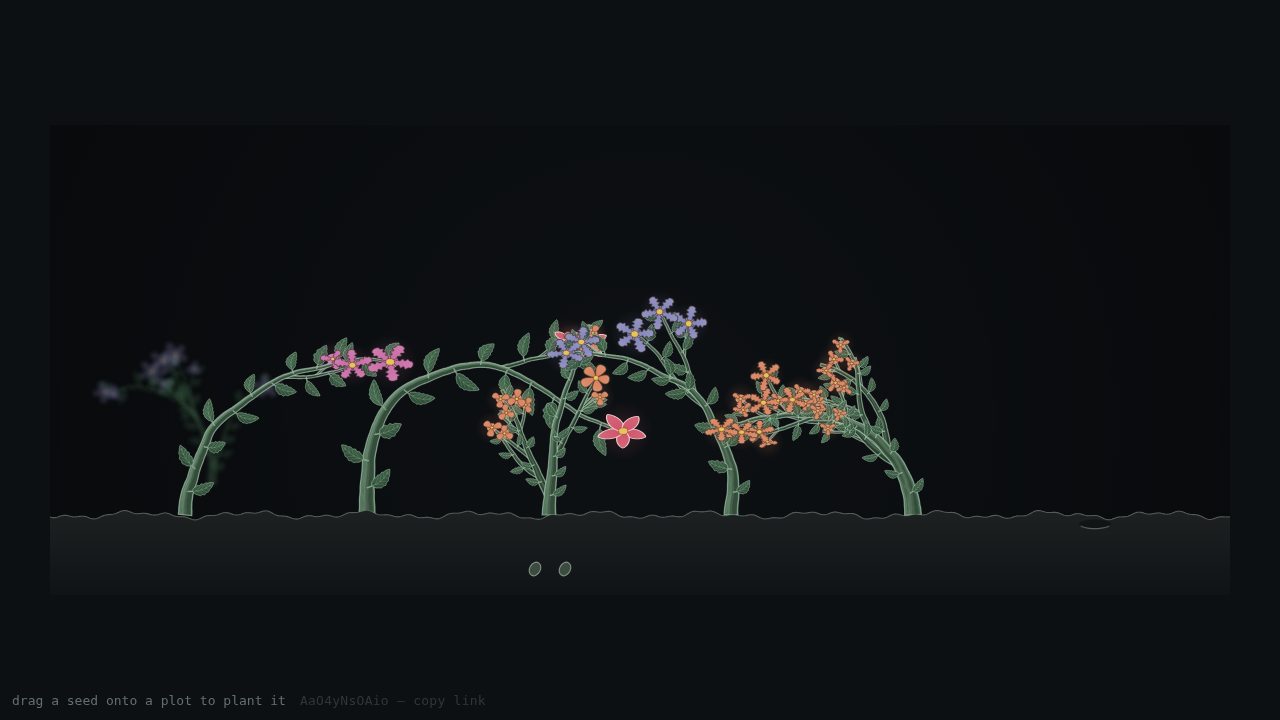
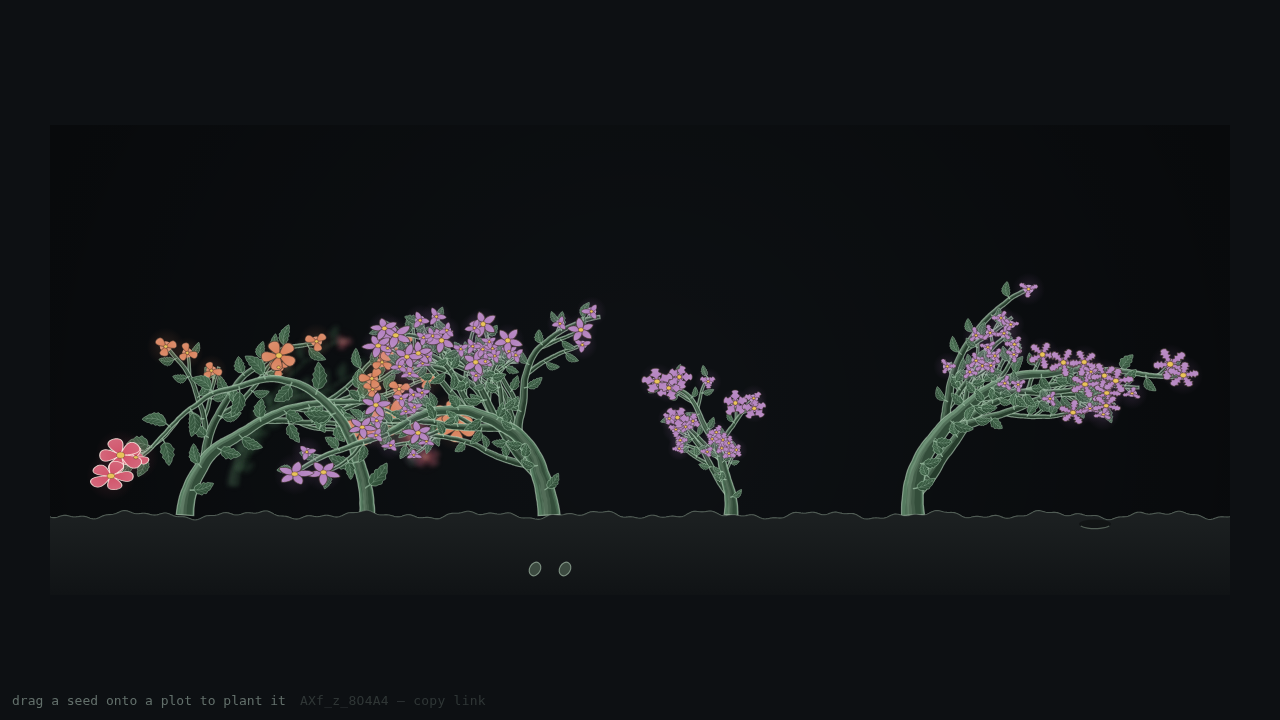
feat(garden): the world adapts to the viewport
A phone no longer gets a 396x158 strip of a desktop-shaped world. World size,
soil line and plot count all come from computeLayout(viewport) — 6 plots at
1180x470 on a desktop, 4 in phone landscape, 2 in portrait — and rotating
reshapes the bed rather than scaling it.

Surplus plants RETIRE when the bed narrows rather than vanishing, which is what
retirement already means here and leaves them in the background instead of
deleting them.

Three defects found while testing this, each of which only appears on a narrow
world:

- placeRetired scattered by a FIXED ±170px. That is 29% of a 1180-wide world
  but 86% of a 396-wide one, so retired plants were flung off the canvas: the
  background reported `depth 1, coverage 0` — a layer composited and drawn
  nowhere. Scatter is now a fraction of world width.
- Surplus plants were moved into `retired` carrying geometry built around a plot
  that no longer exists. A plant grown at x=728 composites almost entirely off
  a 396-wide canvas; two whole plants produced 157 covered pixels. They are
  re-grown into the new world before retiring.
- Resizing a canvas RESETS its transform, so the dpr scale has to be re-applied
  or everything after a rotation draws at half size.

And two defects in the CHECK itself, both of which reported failures that were
not there:

- It waited on `retired >= n`, which relayout satisfies synchronously before the
  frame loop has drawn anything — so it read a legitimately-empty buffer as a
[…]

Changed region(s): [[0.0625, 0.3972, 0.9375, 0.7333]]

diff --git a/garden/garden.ts b/garden/garden.ts
@@ -16,6 +16,7 @@ import {
   shownBlooms as bloomsOf,
   traySlot,
 } from "../src/game/hit";
+import { computeLayout, layoutChanged, type Layout } from "../src/game/layout";
 import { SAVE_KEY, fromSave, toSave, type ReplayEntry } from "../src/game/save";
 import type { Genome } from "../src/genome/genome";
 import { genomeSeed, parseGenome, serialize } from "../src/genome/serialize";
@@ -29,34 +30,28 @@ import {
 } from "../src/render/stage";
 import type { Vec2 } from "../src/types";
 
-const W = 1180;
-/**
- * Sized to what the plants actually occupy, not to a round number. At 520 with the soil at
- * 440 the tallest founder topped out around 40% of the frame and the upper 60% was empty
- * sky — the growth engine's plants are roughly 250px tall, so the headroom above them was
- * larger than the plants themselves.
- */
-const H = 470;
-/**
- * Deep enough that the tray rests ON the dirt rather than floating below the frame, shallow
- * enough that the band does not become a slab. At 108px it read as a caption strip; the
- * gradient in paintSoil does the rest of the work.
- */
-const SOIL = 390;
-const PLOTS = 6;
-/** Two thirds sown. The empty plots are the invitation to plant something. */
-const FOUNDERS = 4;
 /** Ticks per frame. Unhurried without being tedious. */
 const SPEED = 1.4;
+
+/**
+ * World geometry, from the viewport. Reassignable rather than constant: a phone rotated to
+ * landscape is a genuinely different garden, not the same garden shrunk.
+ */
+let {
+  W,
+  H,
+  soil: SOIL,
+  plotXs,
+} = computeLayout(window.innerWidth, window.innerHeight);
+/** Two thirds of the bed sown. The empty plots are the invitation to plant something. */
+const foundersFor = (plots: number): number =>
+  Math.max(1, Math.round(plots * 0.67));
 
 const canvas = document.getElementById("c") as HTMLCanvasElement;
 const hintEl = document.getElementById("hint")!;
 const codeEl = document.getElementById("code")!;
 const dpr = Math.min(2, window.devicePixelRatio || 1);
-canvas.width = W * dpr;
-canvas.height = H * dpr;
 const ctx = canvas.getContext("2d")!;
-ctx.scale(dpr, dpr);
 
 /**
  * Size the canvas box to the viewport WITHOUT distorting it.
@@ -80,14 +75,16 @@ function fitCanvas(): void {
   canvas.style.width = `${Math.round(W * scale)}px`;
   canvas.style.height = `${Math.round(H * scale)}px`;
 }
-fitCanvas();
-window.addEventListener("resize", fitCanvas);
-window.addEventListener("orientationchange", fitCanvas);
 
-const plotXs = Array.from({ length: PLOTS }, (_, i) => {
-  const inset = 135;
-  return inset + (i / (PLOTS - 1)) * (W - inset * 2);
-});
+/** Resizing a canvas RESETS its transform, so the dpr scale has to be re-applied. */
+function applyCanvasSize(): void {
+  canvas.width = W * dpr;
+  canvas.height = H * dpr;
+  ctx.setTransform(1, 0, 0, 1, 0, 0);
+  ctx.scale(dpr, dpr);
+  fitCanvas();
+}
+applyCanvasSize();
 
 const rand = mulberry32(Date.now() & 0x7fffffff);
 
@@ -129,10 +126,20 @@ if (stored) {
     if (loaded && !loaded.ok)
       notice = `saved garden rejected — ${loaded.error}`;
     console.error("[heirloom] could not load saved garden:", notice);
-    garden = sowFounders(createGarden(plotXs), FOUNDERS, SOIL, rand);
+    garden = sowFounders(
+      createGarden(plotXs),
+      foundersFor(plotXs.length),
+      SOIL,
+      rand,
+    );
   }
 } else {
-  garden = sowFounders(createGarden(plotXs), FOUNDERS, SOIL, rand);
+  garden = sowFounders(
+    createGarden(plotXs),
+    foundersFor(plotXs.length),
+    SOIL,
+    rand,
+  );
 }
 
 /**
@@ -171,7 +178,7 @@ let now = 0;
  * frame — rather than compositing inside the pointer handler — means every path that retires
  * a plant is covered automatically, including any future one.
  */
-const forest = new Forest(W, H, dpr);
+let forest = new Forest(W, H, dpr);
 let composited = 0;
 
 // Rebuild the background from the replay list rather than from a stored image (§7). Genomes
@@ -180,10 +187,85 @@ let composited = 0;
 // drew it. Costs one growPlant per entry, capped at REPLAY_CAP.
 for (const entry of restored) {
   forest.retire(
-    grow(entry.genome, entry.x, SOIL).plant,
+    grow(entry.genome, clampToBed(entry.x), SOIL).plant,
     genomeSeed(entry.genome),
   );
 }
+
+/** A retired plant's x may predate a narrower world; keep it on the bed. */
+function clampToBed(x: number): number {
+  return Math.min(W - 24, Math.max(24, x));
+}
+
+/**
+ * Re-shape the world when the viewport changes enough to matter.
+ *
+ * A phone rotated to landscape is a different garden, not the same garden scaled: it has room
+ * for more plots. `layoutChanged` gates this because the work is real — one `growPlant` per
+ * occupant plus a full rebuild of the background buffer — and most resize events (dragging a
+ * window edge on a desktop) land on the same world.
+ *
+ * Plants keep their genome and their age; only their origin moves. Growth is deterministic
+ * from the genome, so re-growing at a new x gives the identical plant translated, not a
+ * different one — which is the whole reason the growth seed excludes the plot.
+ */
+function relayout(): void {
+  const next = computeLayout(window.innerWidth, window.innerHeight);
+  const current: Layout = { W, H, soil: SOIL, plotXs };
+  if (!layoutChanged(current, next)) {
+    fitCanvas(); // the world is the same; the box may still need re-fitting
+    return;
+  }
+
+  ({ W, H, soil: SOIL, plotXs } = next);
+  applyCanvasSize();
+
+  // Occupants are re-seated in order. If the new bed has fewer plots, the surplus RETIRES
+  // rather than vanishing — which is what retirement already means here, and leaves the
+  // plants in the background instead of deleting them.
+  const occupants = garden.plots
+    .map((p) => p.occupant)
+    .filter((o): o is NonNullable<typeof o> => o !== null);
+  const keep = occupants.slice(0, plotXs.length);
+  // Surplus plants are RE-GROWN into the new world before retiring, not moved across as-is.
+  // Their geometry was built around a plot that no longer exists: a plant grown at x=728 in a
+  // landscape world composites almost entirely off the edge of a 396-wide portrait one, and
+  // the background came back with 157 covered pixels for two whole plants.
+  const surplus = occupants.slice(plotXs.length).map((o) => ({
+    ...grow(o.genome, clampToBed(o.plant.segments[0]?.x0 ?? W / 2), SOIL),
+    plantedAt: o.plantedAt,
+  }));
+
+  garden = {
+    ...garden,
+    plots: plotXs.map((x, i) => {
+      const o = keep[i];
+      return {
+        x,
+        occupant: o
+          ? { ...grow(o.genome, x, SOIL), plantedAt: o.plantedAt }
+          : null,
+      };
+    }),
+    retired: [...garden.retired, ...surplus],
+  };
+
+  // The buffer is the wrong size now. Rebuild it from the durable log; `composited` is left
+  // alone, so the frame loop still composites the surplus and appends it to the log itself.
+  forest = new Forest(W, H, dpr);
+  for (const entry of retirementLog) {
+    const g = parseGenome(entry.g);
+    if (!g.ok) continue; // a corrupt log entry must not take the whole background down
+    forest.retire(
+      grow(g.genome, clampToBed(entry.x), SOIL).plant,
+      genomeSeed(g.genome),
+    );
+  }
+  scheduleSave();
+}
+
+window.addEventListener("resize", relayout);
+window.addEventListener("orientationchange", relayout);
 
 /**
  * Persist on a trailing debounce.
@@ -545,7 +627,8 @@ Object.assign(window as unknown as Record<string, unknown>, {
     tray: garden.tray.map((s) => serialize(s.genome)),
   }),
   __traySlot: (i: number) => traySlot(i, W, H),
+  __plotCount: () => plotXs.length,
   __plotX: (i: number) => plotXs[i],
   __soil: SOIL,
-  __size: { w: W, h: H },
+  __size: () => ({ w: W, h: H }),
 });

diff --git a/src/render/forest.ts b/src/render/forest.ts
@@ -58,7 +58,14 @@ export function effectiveDepth(): number {
  * Scattered horizontally on purpose. Retiring each plant at the plot it grew in would build a
  * background of six vertical columns — a bar chart of plot usage rather than a forest.
  */
-export function placeRetired(genomeKey: number, index: number): Placement {
+/** Horizontal scatter, as a fraction of world width. 340px of a 1180-wide world. */
+export const SCATTER = 0.288;
+
+export function placeRetired(
+  genomeKey: number,
+  index: number,
+  worldW = 1180,
+): Placement {
   // Index is mixed in so that retiring the SAME genome twice does not stack two identical
   // silhouettes exactly on top of each other.
   const rand = mulberry32((genomeKey ^ (index * 0x9e3779b1)) >>> 0);
@@ -70,7 +77,11 @@ export function placeRetired(genomeKey: number, index: number): Placement {
   // and the live bed stopped being the subject of its own picture. A background layer has to
   // give up far more than it intuitively seems it should.
   return {
-    dx: (rand() - 0.5) * 340,
+    // Scatter is a FRACTION of the world, not a fixed 340px. A fixed span is 29% of a
+    // 1180-wide desktop world but 86% of a 396-wide phone world, so on a phone retired
+    // plants were flung clean off the canvas and the background came back genuinely empty —
+    // `depth 1, coverage 0`, a layer that had been composited and drawn nowhere.
+    dx: (rand() - 0.5) * worldW * SCATTER,
     // Further back sits higher in frame and smaller: a cheap, consistent perspective cue.
     dy: -8 - depth * 30,
     scale: 0.82 - depth * 0.18,

diff --git a/test/forest.test.ts b/test/forest.test.ts
@@ -124,3 +124,35 @@ describe("placeRetired", () => {
     }
   });
 });
+
+describe("scatter scales with the world", () => {
+  it("keeps a retired plant on the canvas at every world width", () => {
+    // The defect: a fixed 340px scatter is 29% of a 1180-wide desktop world but 86% of a
+    // 396-wide phone world. On a phone, retired plants were flung off the canvas entirely
+    // and the background came back with `depth 1, coverage 0` — a layer composited and
+    // drawn nowhere. Intermittent, because it needed a narrow world to show up.
+    const rand = mulberry32(77);
+    for (const worldW of [360, 396, 560, 847, 1180]) {
+      for (let i = 0; i < 200; i++) {
+        const p = placeRetired(genomeSeed(randomGenome(rand)), i, worldW);
+        // An origin anywhere on the bed plus this offset must stay within the world, with
+        // room for the canopy either side.
+        expect(Math.abs(p.dx), `world ${worldW}`).toBeLessThan(worldW * 0.25);
+      }
+    }
+  });
+
+  it("CONTROL: a fixed scatter escapes a narrow world", () => {
+    // Pins that the assertion above discriminates — the shipped 340px span against a
+    // 396-wide world.
+    expect(Math.abs(-170)).toBeGreaterThan(396 * 0.25);
+  });
+
+  it("still scatters widely on a desktop world", () => {
+    const rand = mulberry32(78);
+    const xs = Array.from({ length: 300 }, (_, i) =>
+      placeRetired(genomeSeed(randomGenome(rand)), i, 1180).dx,
+    );
+    expect(Math.max(...xs) - Math.min(...xs)).toBeGreaterThan(250);
+  });
+});

diff --git a/src/render/accumulate.ts b/src/render/accumulate.ts
@@ -48,7 +48,7 @@ export class Forest {
   retire(plant: Plant, genomeKey: number): void {
     const origin = plant.segments[0];
     if (!origin) return;
-    const place: Placement = placeRetired(genomeKey, this.layers);
+    const place: Placement = placeRetired(genomeKey, this.layers, this.w);
     const c = this.ctx;
 
     // `source-atop` confines the wash to pixels that already exist, so the empty background
